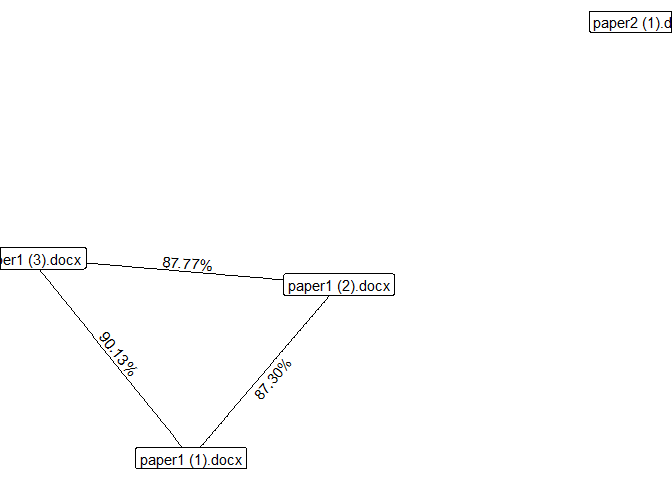
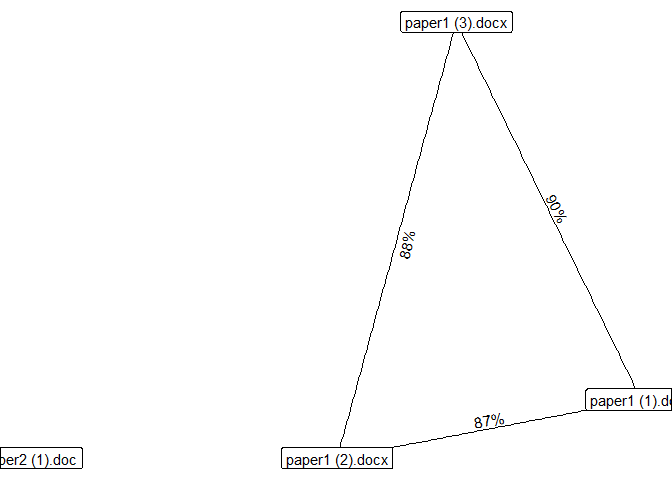
update docs

diff --git a/README.md b/README.md
@@ -31,8 +31,8 @@ Create a list of files:
 ``` r
 my_files <- list.files(path = '../doc', pattern = '.doc', full.names = T)
 my_files
-#> [1] "../doc/paper1 (1).docx" "../doc/paper1 (2).docx"
-#> [3] "../doc/paper1 (3).docx" "../doc/paper2 (1).doc"
+#> [1] "../doc/paper1 (1).docx" "../doc/paper1 (2).docx" "../doc/paper1 (3).docx"
+#> [4] "../doc/paper2 (1).doc"
 ```
 
 The first 3 documents are different drafts of the same paper, so we
@@ -56,15 +56,12 @@ The only function, `catch_em`, takes the following input arguments:
 
 ``` r
 library(cheatR)
-#> Registered S3 method overwritten by 'R.oo':
-#>   method        from       
-#>   throw.default R.methodsS3
 #> Catch 'em cheaters!
 results <- catch_em(flist = my_files,
                     n_grams = 10, time_lim = 1) # defults
 #> Reading documents... Done!
 #> Looking for cheaters
-#> ===========================================================================
+#> ================================================================================
 #> Busted!
 ```
 
@@ -72,7 +69,7 @@ The resulting list contains a matrix with the similarity values between
 each pair of documents:
 
 ``` r
-knitr::kable(summary(results))
+knitr::kable(results)
 ```
 
 |                 | paper1 (1).docx | paper1 (2).docx | paper1 (3).docx | paper2 (1).doc |
@@ -86,8 +83,15 @@ You can also plot the relational graph if you’d like to get a more clear
 picture of who copied from who.
 
 ``` r
-plot(results, weight_range = c(0.7, 1))
-#> Using `nicely` as default layout
+plot(results, weight_range = c(0.7, 1), remove_lonely = FALSE)
+#> Loading required package: tidygraph
+#> 
+#> Attaching package: 'tidygraph'
+#> The following object is masked from 'package:stats':
+#> 
+#>     filter
+#> Loading required package: ggraph
+#> Using `stress` as default layout
 ```
 
 ![](doc/cheater_graph-1.png)<!-- -->
